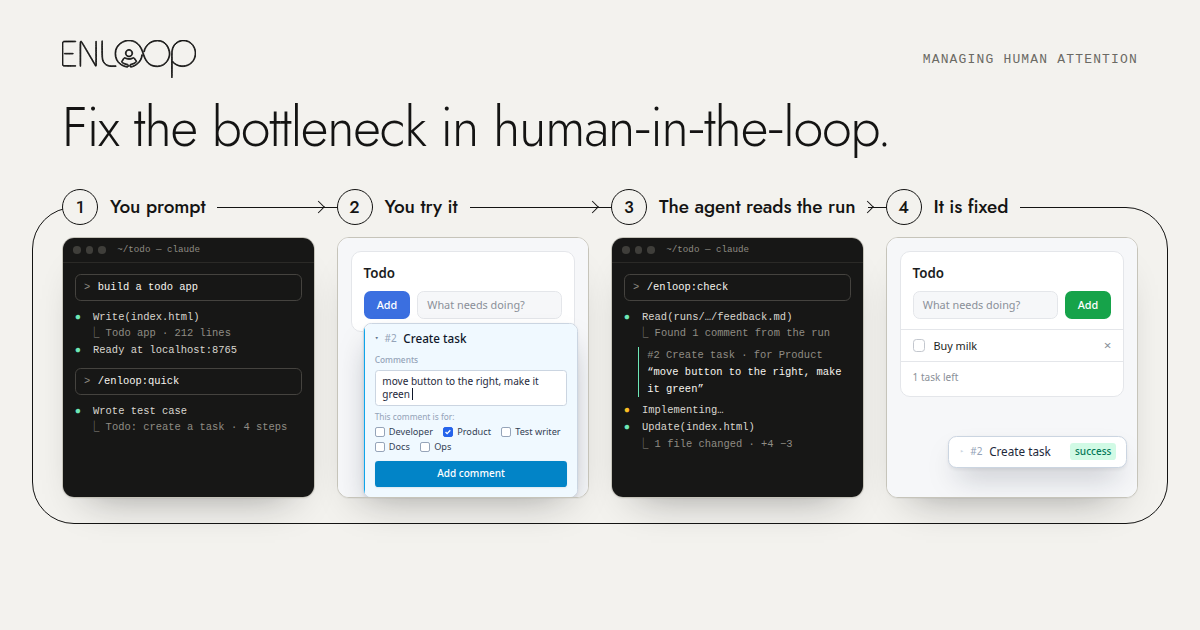
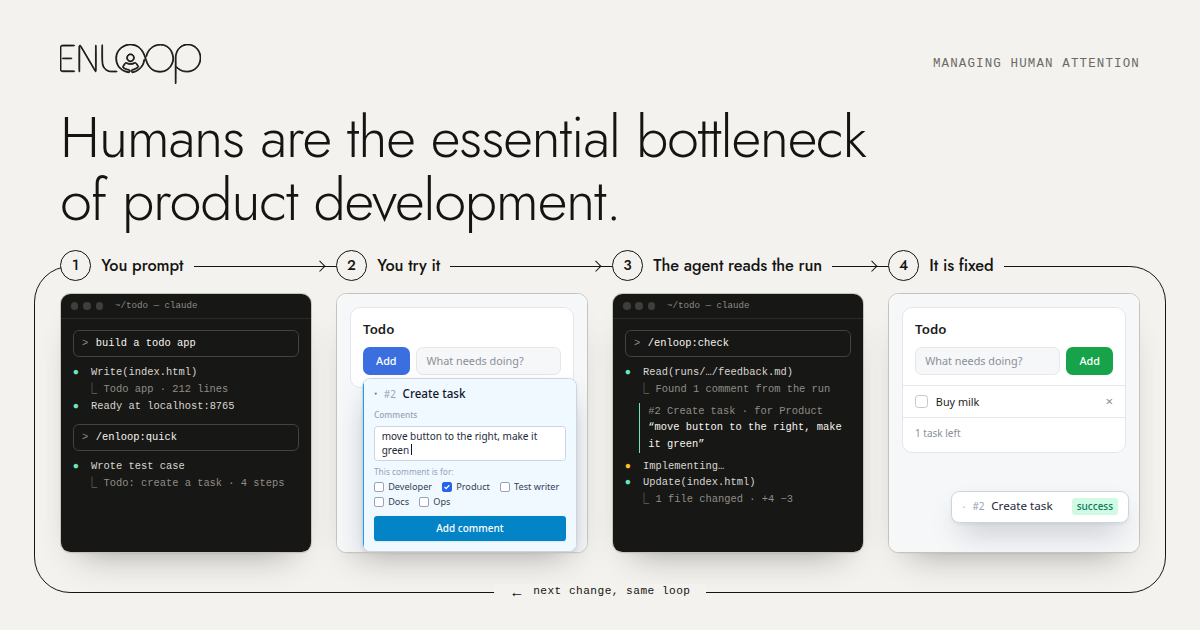
Reframe the website around the essential bottleneck
The hero now says humans are the essential bottleneck of product
development, and that Enloop brings them up to speed: the context to
verify the product is in the case, and what they say goes back to the
agent much faster. The loop captions, the mid-run, format, manifesto,
features and skills sections each extend one half of that — context in
front of the tester, or feedback carried back without a retelling. The
Open Graph image is regenerated with the new headline, and the h1 is
sized so it wraps to two lines on a desktop and three on a phone.

diff --git a/site/index.html b/site/index.html
@@ -3,17 +3,17 @@
   <head>
     <meta charset="UTF-8" />
     <meta name="viewport" content="width=device-width, initial-scale=1.0" />
-    <title>Enloop — fix the bottleneck in human-in-the-loop</title>
+    <title>Enloop — bring the human in the loop up to speed</title>
     <meta
       name="description"
-      content="The human is the slowest step in any AI feedback cycle. Enloop makes that step ruthlessly effective: your agent writes the test case, a Chrome side panel walks you through it, and what you say goes straight back to the agent."
+      content="Humans are the essential bottleneck of product development. Enloop brings them up to speed: the context to verify the product is in the case, and what they say goes back to the agent much faster. Your agent writes the test case, a Chrome side panel walks you through it, and what you say goes straight back."
     />
     <link rel="icon" type="image/png" sizes="32x32" href="assets/favicon-32.png" />
     <link rel="apple-touch-icon" href="assets/apple-touch-icon.png" />
-    <meta property="og:title" content="Enloop — fix the bottleneck in human-in-the-loop" />
+    <meta property="og:title" content="Enloop — humans are the essential bottleneck of product development" />
     <meta
       property="og:description"
-      content="Your agent writes the test case, a Chrome side panel walks you through it, and what you say goes straight back to the agent."
+      content="Enloop brings them up to speed: the context to verify the product, and feedback that reaches the agent much faster. Your agent writes the test case, a Chrome side panel walks you through it, and what you say goes straight back."
     />
     <!-- Absolute, because Open Graph consumers do not resolve relative URLs. -->
     <meta property="og:image" content="https://enloop-md.github.io/enloop/about/assets/og.png" />
@@ -64,11 +64,13 @@
       <section class="hero">
         <div class="wrap">
           <p class="eyebrow">Enloop — managing human attention</p>
-          <h1>Fix the bottleneck in human&#8209;in&#8209;the&#8209;loop.</h1>
+          <h1>Humans are the essential bottleneck of product development.</h1>
           <p class="lede">
-            The human is the slowest step in any AI feedback cycle. Enloop makes that step
-            ruthlessly effective: your agent writes the test case, a Chrome side panel walks you
-            through it, and whatever you say along the way goes straight back to the agent.
+            An agent builds the feature in minutes; a person still has to see it and say whether
+            it is right. Enloop brings that person up to speed: the context to verify the product
+            is in the case, and what they say goes back to the agent much faster. Your agent
+            writes the test case, a Chrome side panel walks you through it, and whatever you say
+            along the way goes straight back.
           </p>
           <div class="cta">
             <a
@@ -111,7 +113,8 @@
                 </figure>
                 <p class="cap">
                   Ask for the feature. <code>/enloop:quick</code> then writes its test case from
-                  the source — every route, label and selector read, none invented.
+                  the source — every route, label and selector read, none invented. The context
+                  is gathered before you arrive.
                 </p>
               </li>
 
@@ -157,7 +160,8 @@
                   </div>
                 </figure>
                 <p class="cap">
-                  The side panel walks you through each step. Something looks off? Say so on the
+                  The side panel walks you through each step: where to go, what to do, what
+                  should happen. You need not know the app. Something looks off? Say so on the
                   step where you saw it, and tick who it is for.
                 </p>
               </li>
@@ -188,7 +192,7 @@
                 </figure>
                 <p class="cap">
                   Back in the repo, <code>/enloop:check</code> finds what you wrote in the run,
-                  addressed and attached to its step, and gets to work.
+                  addressed and attached to its step, and gets to work. No ticket, no retelling.
                 </p>
               </li>
 
@@ -221,8 +225,8 @@
                   </div>
                 </figure>
                 <p class="cap">
-                  The button is green, on the right. Run the case again and the step passes —
-                  nobody wrote a ticket.
+                  The button is green, on the right. Run the case again and the step passes.
+                  From your comment to the fix took one loop, and nobody wrote a ticket.
                 </p>
               </li>
             </ol>
@@ -240,9 +244,9 @@
               <h2 class="h2">The screen moved on. The test catches up while you run it.</h2>
             </div>
             <p class="lede-s">
-              The page in front of you no longer matches the step? Ask from the step itself. Your
-              question reaches the agent session watching the folder with a screenshot and the
-              page's structure attached. It answers from the app's source — and when the step was
+              Context goes stale the moment the app changes. So when the page in front of you no
+              longer matches the step, ask from the step itself. Your question reaches the agent
+              session watching the folder with a screenshot and the page's structure attached. It answers from the app's source — and when the step was
               the problem, a patched version of the test is waiting. One click loads it into the
               run you are in, and every result you already recorded stays.
             </p>
@@ -393,8 +397,9 @@
             </div>
             <p class="lede-s">
               Committed next to the code it tests, diffable in a pull request, readable without
-              any tool at all. An agent writes it; the side panel turns each line into something
-              that does the work for you.
+              any tool at all. An agent writes it, with everything a person who has never seen the
+              app needs in order to verify it; the side panel turns each line into something that
+              does the work for you.
             </p>
           </div>
 
@@ -458,9 +463,10 @@ if (rows.length !== 1) api.fail(`expected 1 row, got ${rows.length}`);
           <p class="eyebrow">The principle</p>
           <p class="quote">Any friction is a defect.</p>
           <p class="lede-s center">
-            Whoever follows a case may never have seen the app, and is not going to learn it
-            first. So everything was worked out when the case was written, and the person running
-            it is never:
+            A person's attention is the scarce thing in the loop, so none of it is spent on
+            anything but the verdict. Whoever follows a case may never have seen the app, and is
+            not going to learn it first. So everything was worked out when the case was written,
+            and the person running it is never:
           </p>
           <ol class="nevers">
             <li>
@@ -485,6 +491,10 @@ if (rows.length !== 1) api.fail(`expected 1 row, got ${rows.length}`);
         <div class="wrap">
           <p class="eyebrow">Features</p>
           <h2 class="h2 h2-wide">Everything a run needs is already in the panel.</h2>
+          <p class="lede-s lede-after">
+            Each one does one of two jobs: it puts the context in front of the person running the
+            case, or it carries what they said back to the agent without a retelling.
+          </p>
 
           <div class="fgroup">
             <h3>While you run</h3>
@@ -695,8 +705,9 @@ if (rows.length !== 1) api.fail(`expected 1 row, got ${rows.length}`);
             </div>
             <p class="lede-s">
               One plugin for Claude Code and Codex. The skills run from inside the repo of the
-              app you are testing, read its source, and validate everything they write with the
-              real parser before it lands.
+              app you are testing and read its source — that is where the context in every case
+              comes from — and validate everything they write with the real parser before it
+              lands.
             </p>
           </div>
 

diff --git a/site/styles.css b/site/styles.css
@@ -115,8 +115,8 @@ code {
 
 h1 {
   margin: 0 auto;
-  max-width: 13.5em;
-  font: 300 clamp(2.7rem, 7.2vw, 5.4rem) / 1.02 var(--display);
+  max-width: 16em;
+  font: 300 clamp(2.4rem, 6.4vw, 4.9rem) / 1.04 var(--display);
   letter-spacing: -0.022em;
   font-variant-ligatures: no-common-ligatures;
   text-wrap: balance;
@@ -132,6 +132,10 @@ h1 {
 
 .h2-wide {
   max-width: 18em;
+}
+
+.lede-after {
+  margin-top: 18px;
 }
 
 .lede {
